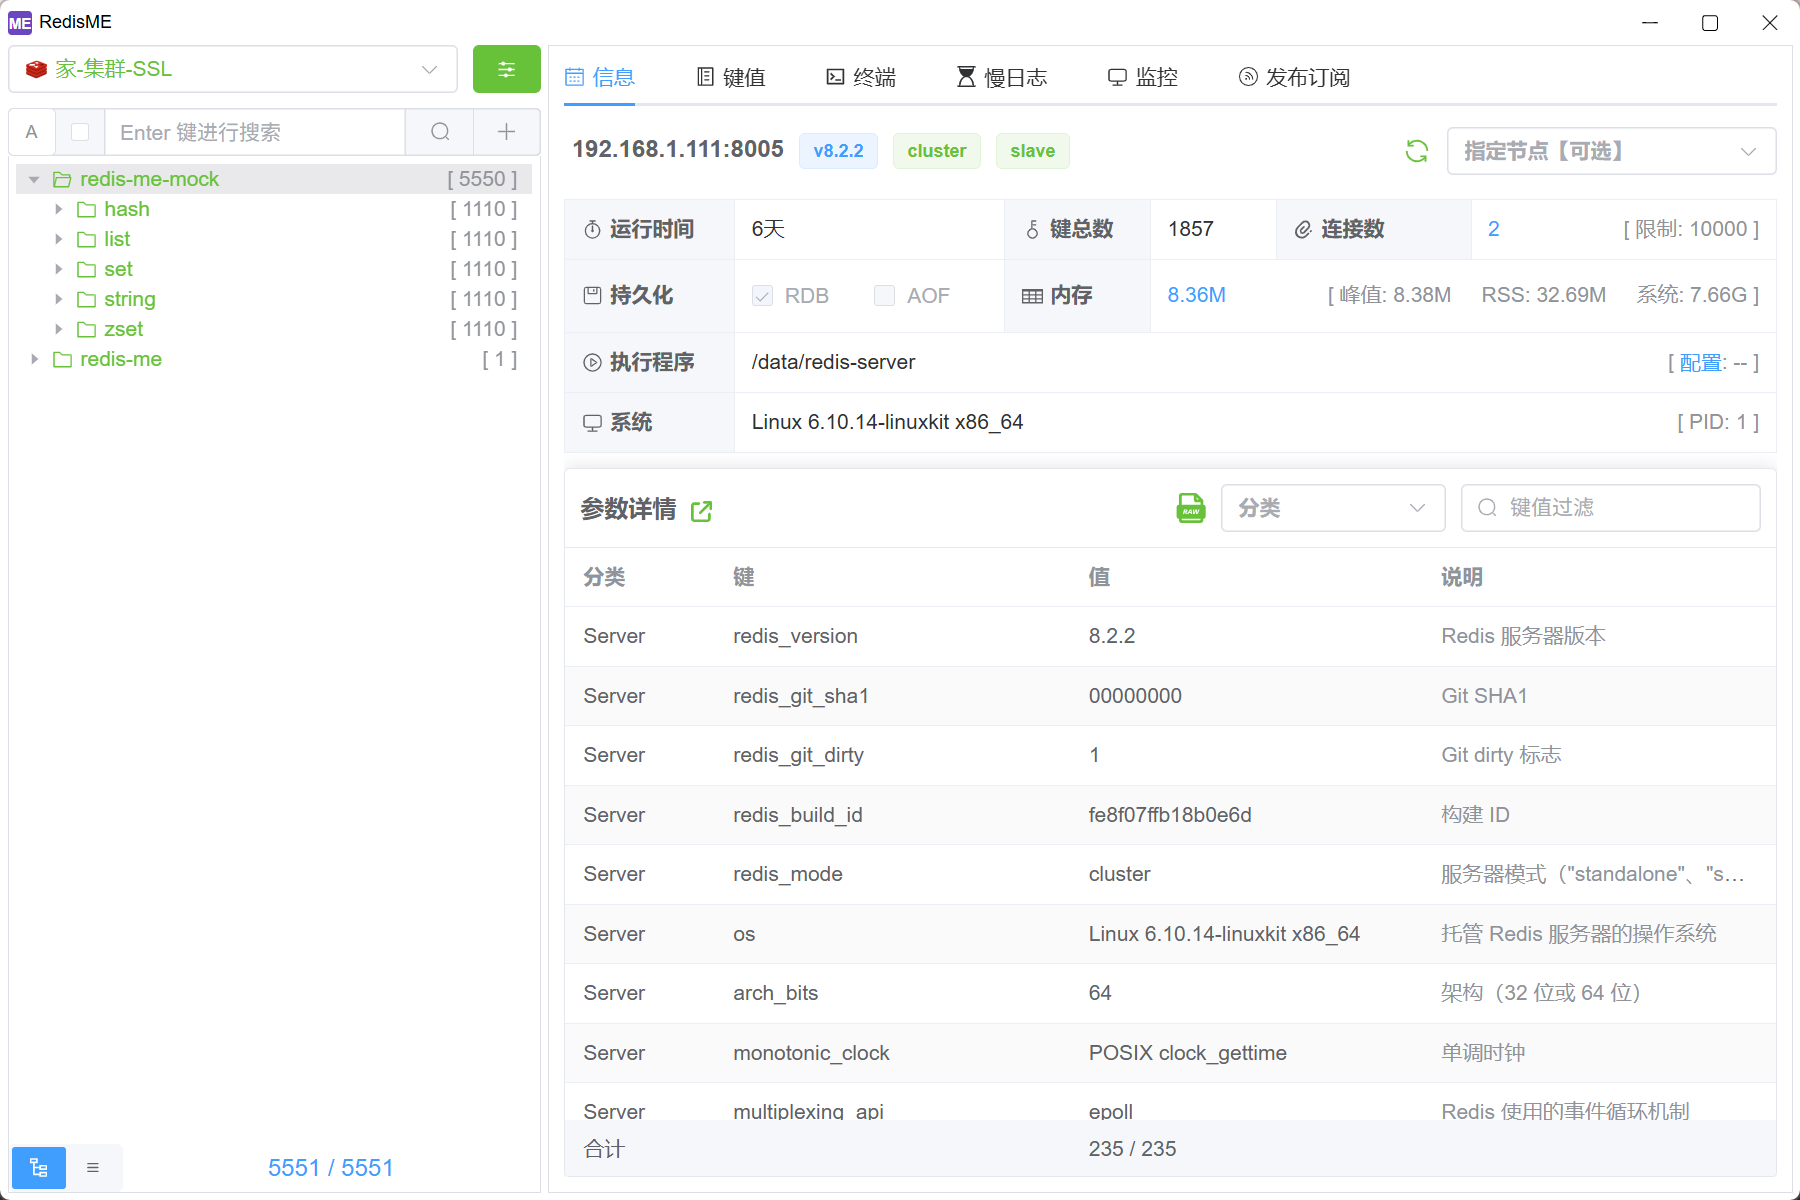
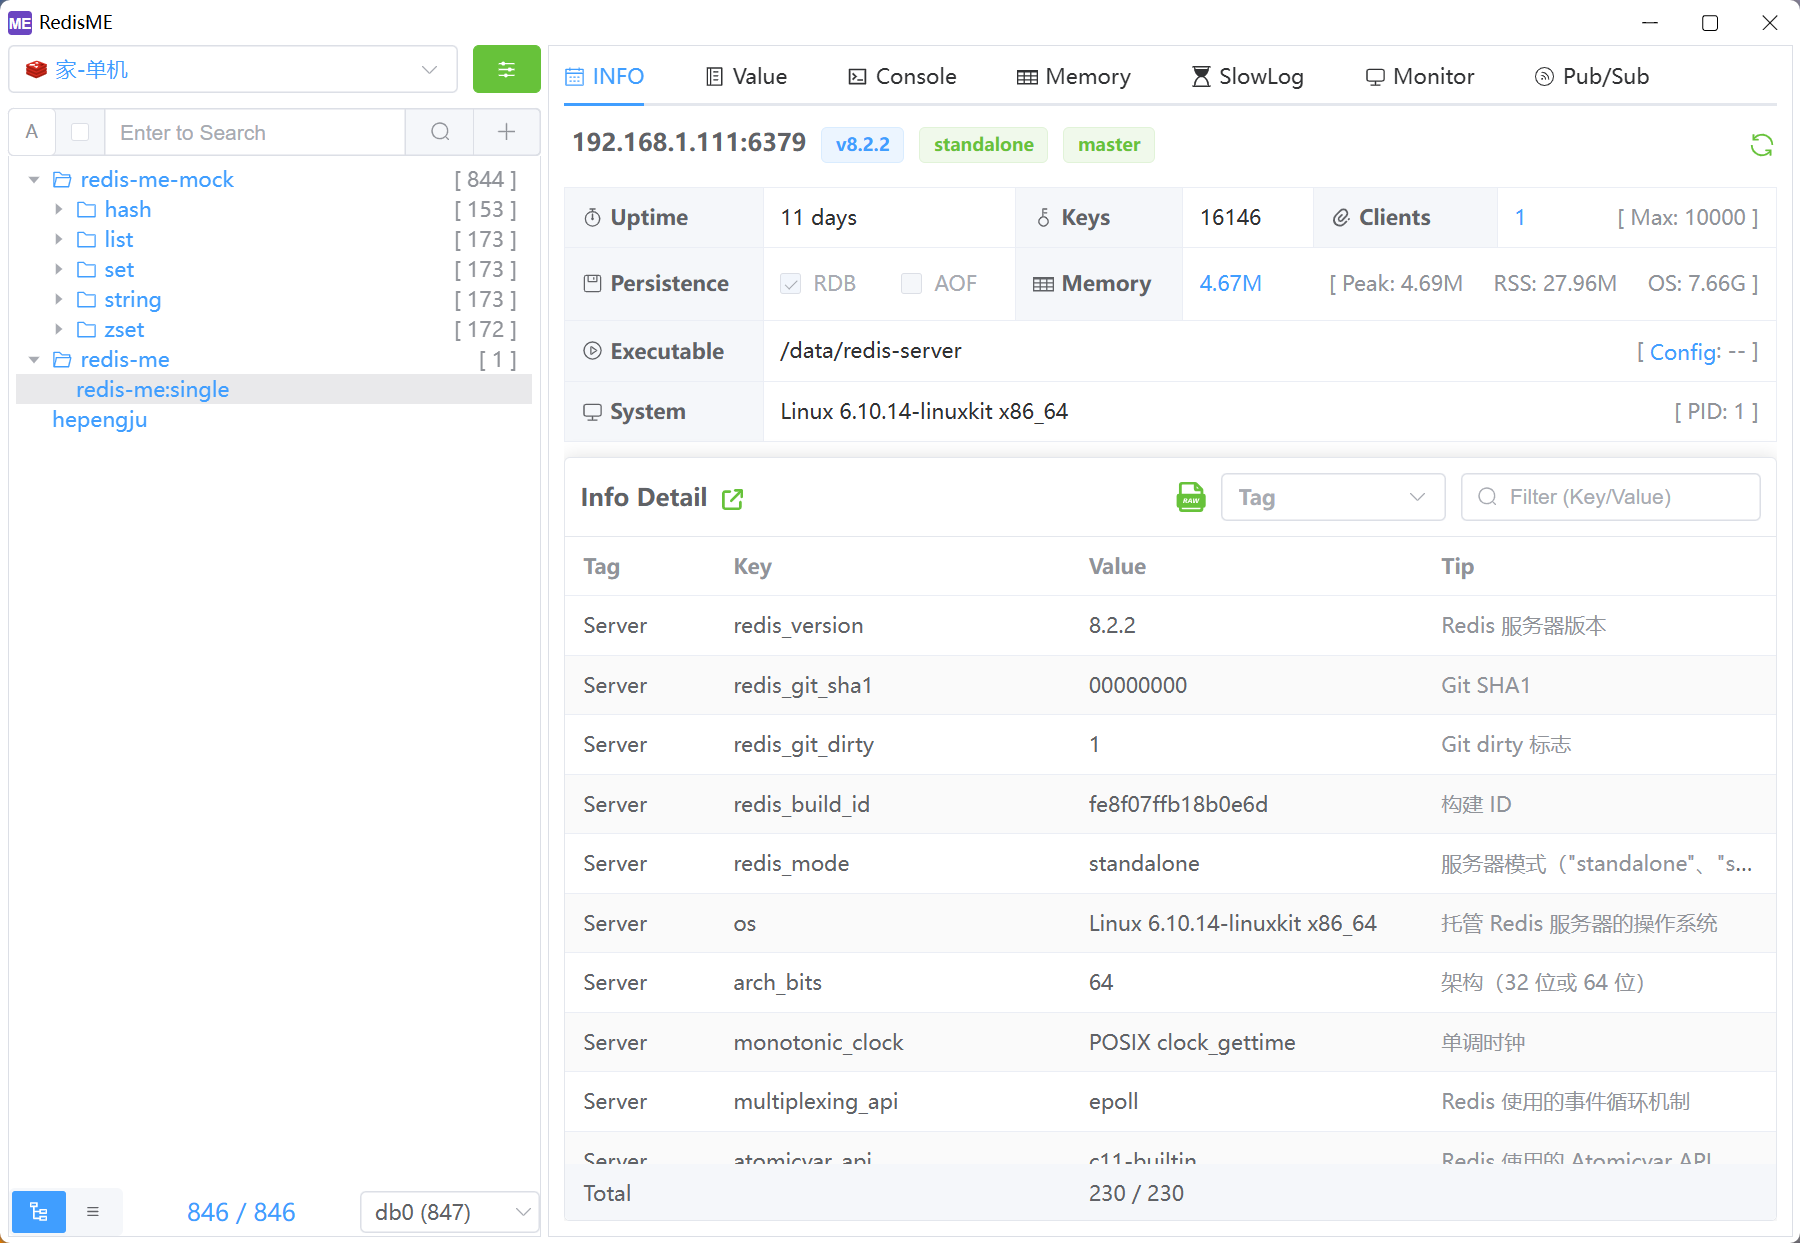
Merge pull request #13 from hepengju/master
v0.1.5

Pull request: v0.1.5

diff --git a/src/views/tab/RedisMemory.vue b/src/views/tab/RedisMemory.vue
@@ -2,11 +2,11 @@
 // 官网参考: https://redis.ac.cn/docs/latest/commands/slowlog-get/
 import {
   bus,
-  meDeleteKey,
-  meFilterHandler,
   KEY_REFRESH,
   meConfirm,
   meCopy,
+  meDeleteKey,
+  meFilterHandler,
   meHumanSize,
   meInvoke,
   meOk
@@ -39,6 +39,15 @@ const match = ref('')
 const matchParam = computed(() => {
   if (match.value === '') return '*'
   return '*' + match.value + '*'
+})
+
+// 要求为正整数, 避免调用Rust时转换为u64报错
+watchEffect(() => {
+  if (sizeLimitKb.value < 0) sizeLimitKb.value = 0
+  if (countLimit.value < 0) countLimit.value = 0
+  if (scanCount.value < 0) scanCount.value = 0
+  if (scanTotal.value < 0) scanTotal.value = 0
+  if (sleepMillis.value < 0) sleepMillis.value = 0
 })
 
 const keyword = ref('')
@@ -78,8 +87,7 @@ async function refresh() {
       sleepMillis: sleepMillis.value,
       needKeyType: true
     }
-    const data = await meInvoke('memory_usage', {id: share.conn.id, param})
-    dataList.value = data
+    dataList.value = await meInvoke('memory_usage', {id: share.conn.id, param})
   } finally {
     loading.value = false
   }
@@ -116,7 +124,7 @@ function selectionChange(newSelection) {
 }
 
 function batchDelKey() {
-  meConfirm(t('redisMemory.batchDeleteHint', {size: selection.value.length}), async () => {
+  meConfirm(t('redisMemory.batchDeleteHint', selection.value.length, {count: selection.value.length}), async () => {
     const param = {
       match: '',
       keyList: selection.value.map(row => ({key: row.key, bytes: row.bytes})),
@@ -139,7 +147,7 @@ function batchDelKey() {
           <template #dropdown>
             <el-dropdown-menu>
               <el-dropdown-item>
-                <el-input v-model.number="match" style="width: 220px" :placeholder="t('redisMemory.fuzzy')">
+                <el-input v-model="match" style="width: 220px" :placeholder="t('redisMemory.fuzzy')">
                   <template #prepend>{{ t('redisMemory.matchParam') }}</template>
                   <template #append>
                     <el-tooltip raw-content :content="hint" popper-style="max-width: 600px">

diff --git a/src/locales/lang/en.js b/src/locales/lang/en.js
@@ -70,7 +70,7 @@ export default {
     key: 'Key',
     ca: 'CA',
 
-    nameHint: '【Optional】Automatically generated based on Host and Port',
+    nameHint: '[Optional] Automatically generated based on Host and Port',
     certHint: 'Public Key File format',
     keyHint: 'Private Key File in PEM format',
     caHint: 'Certificate Authority File in PEM format',
@@ -83,7 +83,7 @@ export default {
 
   util: {
     day: 'D',
-    deleteKey: 'Delete【{key}】?',
+    deleteKey: 'Delete [{key}]?',
     updateHint: 'new version v{version}，update？',
     updateDone: 'update done, restart now?',
     updateErr: 'update error: {message}'
@@ -136,7 +136,7 @@ export default {
     ttl: 'TTL',
     negativeOneHint: '-1 means Permanent',
     permanent: 'Permanent',
-    second: 'Second',
+    second: 'Second | Seconds',
     value: 'Value',
     element: 'Element',
     hashKey: 'HashKey'
@@ -160,13 +160,13 @@ export default {
 
   keyBatchDel: {
     matchRequired: 'Key match expression required',
-    title: 'Batch Delete Key',
+    title: 'Batch Delete Keys',
     match: 'Key match expression',
     deleteDirect: 'Delete Direct',
-    impactKeys: 'Impact Keys ({size})',
+    impactKeys: 'Impact Key ({count}) | Impact Keys ({count})',
     confirmDelete: 'Confirm Delete',
     showImpactKeys: 'Show Impact Keys',
-    confirmDeleteSize: 'Delete {size} Keys'
+    confirmDeleteSize: 'Delete 1 Key | Delete {count} Keys'
   },
 
   keyMemory: {
@@ -219,7 +219,7 @@ export default {
     rdbDisabled: 'RDB Disabled',
     total: 'Total',
     uptimeInDays: 'Uptime',
-    days: 'days',
+    days: 'day | days',
     keyTotal: 'Keys',
     connectedClients: 'Clients',
     maxClients: 'Max',
@@ -252,7 +252,7 @@ export default {
     `,
     total: 'Total',
     longTimeHint: 'Are you sure to start memory analysis? It may take a long time, please be patient!',
-    batchDeleteHint: 'Batch Delete {size} Keys？',
+    batchDeleteHint: 'Batch Delete 1 Key? | Batch Delete {count} Keys?',
     scanConfig: 'Scan Config',
 
     fuzzy: 'fuzzy',
@@ -355,6 +355,5 @@ export default {
     loadMore: 'Load More',
     loadAll: 'Load All',
   }
-
 
 }

diff --git a/src/views/tab/RedisSlow.vue b/src/views/tab/RedisSlow.vue
@@ -16,6 +16,11 @@ const dataList = ref([])
 const sortProperty = ref('cost')
 const sortOrder = ref('descending')
 
+// 最小为1
+watchEffect(() => {
+  if (slowerGetCount.value < 1) slowerGetCount.value = 1
+})
+
 const filterDataList = computed(() => {
   const key = keyword.value.toLowerCase()
   const arr = dataList.value.filter(row => !key

diff --git a/src/views/key/KeyBatchDel.vue b/src/views/key/KeyBatchDel.vue
@@ -92,7 +92,7 @@ const {list, containerProps, wrapperProps} = useVirtualList(
         <el-checkbox v-model="form.deleteDirect" v-if="form.keyList.length === 0">{{t('keyBatchDel.deleteDirect')}}</el-checkbox>
       </el-form-item>
 
-      <el-form-item :label="t('keyBatchDel.impactKeys', {size: form.keyList.length})" v-if="!showScan">
+      <el-form-item :label="t('keyBatchDel.impactKeys', form.keyList.length, {count: form.keyList.length})" v-if="!showScan">
         <div v-bind="containerProps" :style="{height: '300px', width: '100%'}">
           <div v-bind="wrapperProps">
             <div v-for="item in list" :key="item.index" class="key single-line-ellipsis">
@@ -108,7 +108,7 @@ const {list, containerProps, wrapperProps} = useVirtualList(
       <el-button type="primary" :loading="loading" @click="submit" v-if="form.deleteDirect">{{ t('keyBatchDel.confirmDelete') }}</el-button>
       <template v-else>
         <el-button type="primary" :loading="loading" @click="scanKey" v-if="showScan">{{ t('keyBatchDel.showImpactKeys') }}</el-button>
-        <el-button type="primary" :loading="loading" @click="submit" v-else :disabled="form.keyList.length == 0"> {{t('keyBatchDel.confirmDeleteSize', {size: form.keyList.length})}}</el-button>
+        <el-button type="primary" :loading="loading" @click="submit" v-else :disabled="form.keyList.length == 0"> {{ t('keyBatchDel.confirmDeleteSize', form.keyList.length, {count: form.keyList.length}) }}</el-button>
       </template>
     </template>
   </el-dialog>

diff --git a/src/locales/index.js b/src/locales/index.js
@@ -9,8 +9,7 @@ const i18n = createI18n({
   locale: 'en',
   fallbackLocale: 'en',
   messages: {zhCN, en},
-
-  warnHtmlInMessage: false // 关闭html警告
+  warnHtmlMessage: false // 关闭html警告
 })
 
 export default i18n

diff --git a/src/views/ext/FieldAdd.vue b/src/views/ext/FieldAdd.vue
@@ -134,7 +134,7 @@ const hint = computed(() => {
             <el-input v-model.number="form.ttl">
               <template #append>
                 <el-tooltip :content="t('fieldAdd.negativeOneHint')" placement="top">
-                  <div>{{form.ttl == -1 ? t('fieldAdd.permanent') : t('fieldAdd.second')}}</div>
+                  <div>{{form.ttl == -1 ? t('fieldAdd.permanent') : t('fieldAdd.second', form.ttl)}}</div>
                 </el-tooltip>
               </template>
             </el-input>

diff --git a/src/views/tab/RedisInfo.vue b/src/views/tab/RedisInfo.vue
@@ -140,7 +140,7 @@ function goMemory() {
 
       <el-descriptions-item>
         <template #label><me-icon :name="t('redisInfo.uptimeInDays')" icon="el-icon-timer"/></template>
-        {{dic['uptime_in_days']}} {{t('redisInfo.days')}}
+        {{dic['uptime_in_days']}} {{t('redisInfo.days', parseInt(dic['uptime_in_days']))}}
       </el-descriptions-item>
 
       <el-descriptions-item>

diff --git a/README.md b/README.md
@@ -1,5 +1,10 @@
-# RedisME
-Redis Desktop Manager based on Tauri
+## RedisME
 
-![redis-me-light.png](docs/image/light.png)
-![redis-me-dark.png](docs/image/dark.png)
+Redis Desktop Manager based on Tauri
+![light.png](docs/image/light.png)
+![dark.png](docs/image/dark.png)
+
+
+基于Tauri的Redis桌面管理器
+![light-zh.png](docs/image/light-zh.png)
+![dark-zh.png](docs/image/dark-zh.png)

diff --git a/docs/changelog/v0.1.6.md b/docs/changelog/v0.1.6.md
@@ -1,0 +1,10 @@
+# v0.1.6 (2025-12-31)
+
+- Gitee的Release版本
+- 网络站点的搭建
+- Redis哨兵模式的支持
+- 发布微软商店
+- 发布苹果商店（还需要缴费！）
+
+
+

diff --git a/docs/todo.md b/docs/todo.md
@@ -1,7 +1,6 @@
 - Mac标题栏显示适配 √
-- 默认字体处理：适配MacOS,Linux可以合适显示
-  * macos OK
-- 阻止已发布程序的右键reload
+- 默认字体处理：适配MacOS,Linux可以合适显示 √
+- 阻止已发布程序的右键reload  √
 - 网站初步设计优化
 - 各平台打包优化：考虑是否需要Windows绿色版
 - 升级检测优化验证
@@ -9,7 +8,7 @@
 - 软件和网站的国际化支持
 - 站点文档目录优化
 
-- v-model.number优化
+- v-model.number优化 √
 - 监控、发布/订阅优化
 - 标准线程无法取消，是否必要使用异步？
 - 终端命令是否需要单独的连接？避免相互影响？
@@ -23,7 +22,7 @@
 - 国际化支持
 - 微信登录同步账号信息
 
-- dbSize显示出来
+- dbSize显示出来 √
 - 尝试更换secrets设置方式
 - 单机、单机-ssl、集群、集群-ssl都验证连接成功 OK
 - 连接配置优化，支持选择文件 OK

diff --git a/docs/changelog/v1.0.0.md b/docs/changelog/v1.0.0.md
@@ -1,7 +1,3 @@
-# v1.0.0 (2025-12-31)
+# v1.0.0 (2026-01-01)
 
-- 国际化处理英文的单数复数
-- 站点文档目录优化
-- 发布微软商店
-- 发布苹果商店（还需要缴费！）
-
+- 迎接新年，第一个正式版本发布

diff --git a/docs/changelog/v0.1.5.md b/docs/changelog/v0.1.5.md
@@ -1,0 +1,6 @@
+# v0.1.5 (2025-12-11)
+
+- 首页截图英中文显示
+- 内存分析参数只能输入正整数
+- i18的html告警处理
+- 国际化处理英文的单数复数